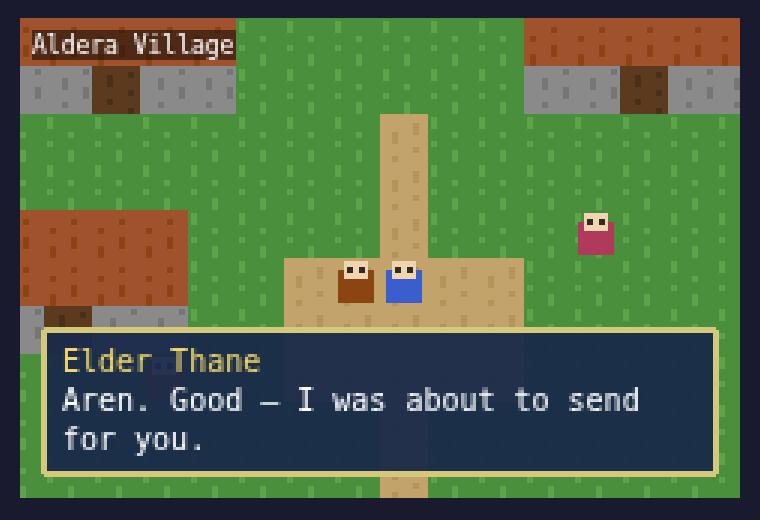
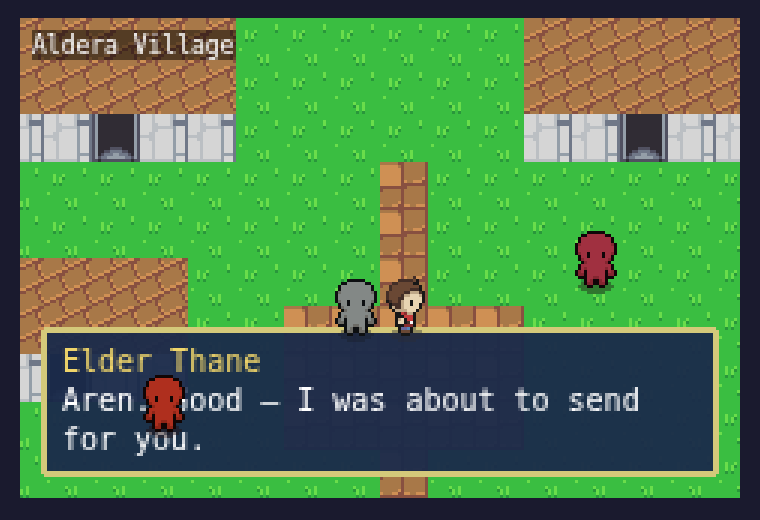
GBA-style visuals: CC0 tileset, animated hero, tinted NPC sprites
Replace generated color blocks with the 'Zelda-like tilesets and sprites'
pack by ArMM1998 (CC0, OpenGameArt) — grass/cobble/water/stone/shingle
tiles, 2x2 tree canopies as depth-sorted overlays, arched doors. Hero
uses the pack's 4-direction walk cycle; NPCs use the tinted template
sheet until per-character sprites exist. Seal crystal stays original
generated art. Tile ids in map JSON unchanged — art swap touched only
the TILE_FRAMES table, as designed.

diff --git a/src/engine/textures.ts b/src/engine/textures.ts
@@ -2,56 +2,67 @@ import Phaser from "phaser";
 
 export const TILE_SIZE = 16;
 
-/**
- * Placeholder tile palette. Each entry is [base color, accent color].
- * These get replaced by a real tileset later; the map JSON tile ids
- * stay stable so content survives the asset upgrade.
- */
-export const TILE_DEFS: { name: string; base: number; accent: number }[] = [
-  { name: "grass", base: 0x4a8f3c, accent: 0x5ca34a },
-  { name: "path", base: 0xc2a36b, accent: 0xb5945a },
-  { name: "water", base: 0x3a6ea5, accent: 0x4a82bd },
-  { name: "tree", base: 0x2d5c24, accent: 0x1f4519 },
-  { name: "wall", base: 0x8a8a8a, accent: 0x767676 },
-  { name: "roof", base: 0xa0522d, accent: 0x8b4513 },
-  { name: "door", base: 0x5c3a1e, accent: 0x4a2f18 },
-  { name: "seal", base: 0x4a2a5a, accent: 0x6a3a7a },
-];
+// The overworld sheet is a 40-column grid of 16x16 frames.
+const SHEET_COLS = 40;
+const f = (col: number, row: number) => row * SHEET_COLS + col;
 
-/** Generate flat-color placeholder textures so the slice needs zero asset files. */
-export function generateTextures(scene: Phaser.Scene): void {
-  for (let i = 0; i < TILE_DEFS.length; i++) {
-    const def = TILE_DEFS[i];
-    const g = scene.add.graphics();
-    g.fillStyle(def.base);
-    g.fillRect(0, 0, TILE_SIZE, TILE_SIZE);
-    g.fillStyle(def.accent);
-    // simple texture noise pattern, deterministic per tile type
-    for (let n = 0; n < 6; n++) {
-      const px = ((n * 7 + i * 3) % 14) + 1;
-      const py = ((n * 11 + i * 5) % 14) + 1;
-      g.fillRect(px, py, 2, 2);
-    }
-    g.generateTexture(`tile_${i}`, TILE_SIZE, TILE_SIZE);
-    g.destroy();
-  }
+/**
+ * Map-JSON tile id → frame in the overworld sheet. The ids in map files
+ * are stable; swapping art means changing only this table.
+ */
+export const TILE_FRAMES: Record<number, number> = {
+  0: f(0, 0), // grass
+  1: f(13, 15), // cobble path
+  2: f(4, 3), // water
+  3: f(0, 0), // tree: grass base, canopy drawn on top
+  4: f(24, 1), // stone wall
+  5: f(25, 14), // shingle roof
+  6: f(25, 3), // arched doorway
+  7: f(13, 15), // seal: cobble base, crystal drawn on top
+};
+
+export const TREE_TILE = 3;
+export const SEAL_TILE = 7;
+
+/** Hero walk-cycle frame ranges per direction (16x32 frames, 17 cols). */
+export const HERO_WALK: Record<string, [number, number]> = {
+  down: [0, 3],
+  left: [17, 20],
+  up: [34, 37],
+  right: [51, 54],
+};
+
+export function preloadAssets(scene: Phaser.Scene): void {
+  scene.load.spritesheet("overworld", "assets/Overworld.png", {
+    frameWidth: 16,
+    frameHeight: 16,
+  });
+  scene.load.spritesheet("hero", "assets/character.png", {
+    frameWidth: 16,
+    frameHeight: 32,
+  });
+  scene.load.spritesheet("npc", "assets/NPC_test.png", {
+    frameWidth: 16,
+    frameHeight: 32,
+  });
 }
 
-/** A 16x16 actor placeholder: body color block with a darker head band. */
-export function generateActorTexture(
-  scene: Phaser.Scene,
-  key: string,
-  color: number
-): void {
-  if (scene.textures.exists(key)) return;
-  const g = scene.add.graphics();
-  g.fillStyle(color);
-  g.fillRect(2, 4, 12, 11);
-  g.fillStyle(0xf0d5b0); // face
-  g.fillRect(4, 1, 8, 6);
-  g.fillStyle(0x000000, 0.8);
-  g.fillRect(5, 3, 2, 2);
-  g.fillRect(9, 3, 2, 2);
-  g.generateTexture(key, TILE_SIZE, TILE_SIZE);
-  g.destroy();
+/** Custom frames / generated textures that depend on loaded assets. */
+export function setupDerivedTextures(scene: Phaser.Scene): void {
+  const over = scene.textures.get("overworld");
+  // 2x2-tile tree canopy at sheet tiles (5,16)
+  if (!over.has("tree")) over.add("tree", 0, 80, 256, 32, 32);
+
+  // the seal crystal is an original generated object
+  if (!scene.textures.exists("seal_crystal")) {
+    const g = scene.add.graphics();
+    g.fillStyle(0x4a2a6a);
+    g.fillRect(5, 8, 6, 7);
+    g.fillStyle(0x7a4aaa);
+    g.fillRect(6, 3, 4, 8);
+    g.fillStyle(0xb08ade);
+    g.fillRect(7, 4, 2, 4);
+    g.generateTexture("seal_crystal", TILE_SIZE, TILE_SIZE);
+    g.destroy();
+  }
 }

diff --git a/src/scenes/WorldScene.ts b/src/scenes/WorldScene.ts
@@ -8,9 +8,13 @@ import type {
 } from "../engine/types";
 import { GameState } from "../engine/GameState";
 import {
+  HERO_WALK,
+  SEAL_TILE,
+  TILE_FRAMES,
   TILE_SIZE,
-  generateActorTexture,
-  generateTextures,
+  TREE_TILE,
+  preloadAssets,
+  setupDerivedTextures,
 } from "../engine/textures";
 import { DialogueBox } from "../ui/DialogueBox";
 
@@ -63,6 +67,7 @@ export class WorldScene extends Phaser.Scene {
   }
 
   preload() {
+    preloadAssets(this);
     if (!this.cache.json.exists(`map_${this.mapId}`)) {
       this.load.json(`map_${this.mapId}`, `data/maps/${this.mapId}.json`);
       this.load.json(`dlg_${this.mapId}`, `data/dialogue/${this.mapId}.json`);
@@ -72,37 +77,50 @@ export class WorldScene extends Phaser.Scene {
   create() {
     this.map = this.cache.json.get(`map_${this.mapId}`) as MapData;
     this.dialogue = this.cache.json.get(`dlg_${this.mapId}`) as DialogueFile;
-    generateTextures(this);
+    setupDerivedTextures(this);
+    this.createAnims();
 
-    // tiles
+    // tiles (canopies and crystals are overlays on a base tile)
     for (let y = 0; y < this.map.height; y++) {
       for (let x = 0; x < this.map.width; x++) {
+        const id = this.map.tiles[y][x];
         this.add
-          .image(x * TILE_SIZE, y * TILE_SIZE, `tile_${this.map.tiles[y][x]}`)
+          .image(x * TILE_SIZE, y * TILE_SIZE, "overworld", TILE_FRAMES[id])
           .setOrigin(0, 0);
+        if (id === TREE_TILE) {
+          this.add
+            .image(x * TILE_SIZE - 8, y * TILE_SIZE - 16, "overworld", "tree")
+            .setOrigin(0, 0)
+            .setDepth(y * TILE_SIZE + 8);
+        } else if (id === SEAL_TILE) {
+          this.add
+            .image(x * TILE_SIZE, y * TILE_SIZE, "seal_crystal")
+            .setOrigin(0, 0)
+            .setDepth(y * TILE_SIZE);
+        }
       }
     }
 
-    // npcs
+    // npcs (tinted template until real per-character sprites exist)
     for (const npc of this.map.npcs) {
-      generateActorTexture(this, `actor_${npc.id}`, npc.color);
       this.add
-        .sprite(npc.x * TILE_SIZE, npc.y * TILE_SIZE, `actor_${npc.id}`)
-        .setOrigin(0, 0);
+        .sprite(npc.x * TILE_SIZE, npc.y * TILE_SIZE - 16, "npc", 0)
+        .setOrigin(0, 0)
+        .setTint(npc.color)
+        .setDepth(npc.y * TILE_SIZE);
       this.npcs.set(`${npc.x},${npc.y}`, npc);
     }
 
     // player
-    generateActorTexture(this, "actor_player", 0x3a5fcd);
     this.playerTile = this.startOverride ?? { ...this.map.playerStart };
     this.player = this.add
       .sprite(
         this.playerTile.x * TILE_SIZE,
-        this.playerTile.y * TILE_SIZE,
-        "actor_player"
+        this.playerTile.y * TILE_SIZE - 16,
+        "hero",
+        HERO_WALK.down[0]
       )
       .setOrigin(0, 0);
-    this.player.setDepth(10);
 
     const cam = this.cameras.main;
     cam.setBounds(0, 0, this.map.width * TILE_SIZE, this.map.height * TILE_SIZE);
@@ -137,6 +155,20 @@ export class WorldScene extends Phaser.Scene {
     };
   }
 
+  private createAnims() {
+    for (const dir of ["down", "left", "up", "right"] as const) {
+      const key = `walk-${dir}`;
+      if (this.anims.exists(key)) continue;
+      const [start, end] = HERO_WALK[dir];
+      this.anims.create({
+        key,
+        frames: this.anims.generateFrameNumbers("hero", { start, end }),
+        frameRate: 10,
+        repeat: -1,
+      });
+    }
+  }
+
   update() {
     if (Phaser.Input.Keyboard.JustDown(this.interactKey)) {
       this.debugInfo.zPresses = ((this.debugInfo.zPresses as number) ?? 0) + 1;
@@ -146,18 +178,28 @@ export class WorldScene extends Phaser.Scene {
         this.tryInteract();
       }
     }
-    if (this.dialogueBox.active || this.moving) return;
 
     let dir: Dir | null = null;
-    if (this.cursors.up.isDown) dir = "up";
-    else if (this.cursors.down.isDown) dir = "down";
-    else if (this.cursors.left.isDown) dir = "left";
-    else if (this.cursors.right.isDown) dir = "right";
-    if (dir) this.tryMove(dir);
+    if (!this.dialogueBox.active && !this.moving) {
+      if (this.cursors.up.isDown) dir = "up";
+      else if (this.cursors.down.isDown) dir = "down";
+      else if (this.cursors.left.isDown) dir = "left";
+      else if (this.cursors.right.isDown) dir = "right";
+    }
+    if (dir) {
+      this.tryMove(dir);
+    } else if (!this.moving && this.player.anims.isPlaying) {
+      this.player.anims.stop();
+      this.player.setFrame(HERO_WALK[this.facing][0]);
+    }
+
+    // actors sort by feet position so canopies overlap correctly
+    this.player.setDepth(this.player.y + 16);
   }
 
   private tryMove(dir: Dir) {
     this.facing = dir;
+    this.player.anims.play(`walk-${dir}`, true);
     const { dx, dy } = DIR_DELTA[dir];
     const nx = this.playerTile.x + dx;
     const ny = this.playerTile.y + dy;
@@ -171,7 +213,7 @@ export class WorldScene extends Phaser.Scene {
     this.tweens.add({
       targets: this.player,
       x: nx * TILE_SIZE,
-      y: ny * TILE_SIZE,
+      y: ny * TILE_SIZE - 16,
       duration: MOVE_MS,
       onComplete: () => {
         this.moving = false;
@@ -208,7 +250,6 @@ export class WorldScene extends Phaser.Scene {
     Object.assign(this.debugInfo, {
       interactAt: `${tx},${ty}`,
       npcFound: npc?.id ?? null,
-      npcKeys: [...this.npcs.keys()],
     });
     if (!npc) return;
     const entry = this.dialogue[npc.dialogueId];

diff --git a/public/assets/CREDITS.md b/public/assets/CREDITS.md
@@ -1,0 +1,9 @@
+# Asset credits
+
+- `Overworld.png`, `character.png`, `NPC_test.png` — from
+  "Zelda-like tilesets and sprites" by ArMM1998,
+  https://opengameart.org/content/zelda-like-tilesets-and-sprites
+  License: CC0 (public domain). Thank you!
+
+Everything else (code-generated textures, all text and data) is original
+to this project.